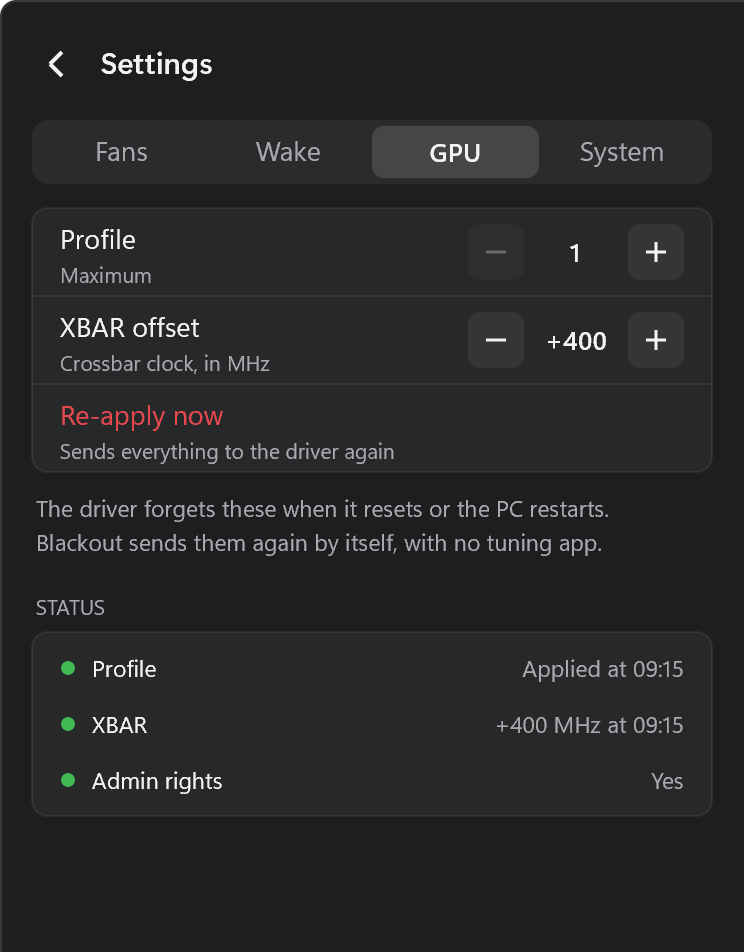
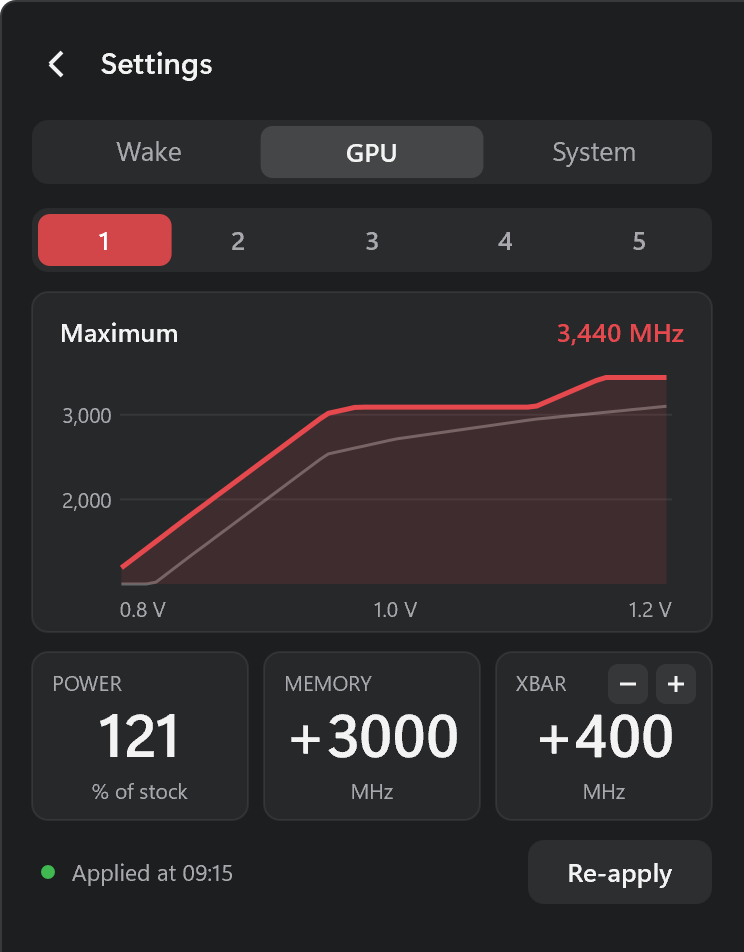
GPU tab redrawn: profile pills, the clock curve as a chart, tiles for power, memory and XBAR

diff --git a/src/panel.c b/src/panel.c
@@ -37,7 +37,7 @@
 enum {
     H_NONE, H_SCREENS, H_GEAR, H_BACK, H_TAB_FANS, H_TAB_WAKE, H_TAB_SYSTEM, H_RGB, H_SYNC, H_CURVE, H_START, H_EXIT,
     H_MAX_DN, H_MAX_UP, H_HYS_DN, H_HYS_UP, H_RESET, H_HOTKEY, H_WAKE_CLICK, H_WAKE_ESC, H_NOTICE, H_OVR_DN, H_OVR_UP, H_OVR,
-    H_TAB_GPU, H_PROF_DN, H_PROF_UP, H_XBAR_DN, H_XBAR_UP, H_GPU_APPLY, H_COUNT
+    H_TAB_GPU, H_PROF1, H_PROF2, H_PROF3, H_PROF4, H_PROF5, H_XBAR_DN, H_XBAR_UP, H_GPU_APPLY, H_COUNT
 };
 enum { F_BRAND, F_ROW, F_SMALL, F_BIG, F_UNIT, F_BOLD, F_TINY, F_COUNT };
 enum { V_MAIN, V_FANS, V_WAKE, V_SYSTEM, V_GPU };
@@ -648,49 +648,147 @@ static void paintSystem(float x, float y, float w) {
          DWRITE_TEXT_ALIGNMENT_LEADING);
 }
 
-// Nothing here is read back from the card while the panel is open (driver reads cost frame time): the tab says what
-// was sent and what the driver answered.
+// GPU tab: the selected profile drawn as a picture. Profile pills, its clock curve over the card's own curve, three
+// tiles (power, memory, XBAR) and a status line. Nothing is read from the card while the panel is open (driver reads
+// cost frame time): the curve is the saved one, the status is what the driver answered when it was last sent.
+static int viewSlot = -1, viewPower, viewMemory, viewCount, viewDelta[NV_SLOTS];
+
+static void gpuView(int slot) {
+    if (slot == viewSlot) return;
+    viewSlot = slot;
+    if (!panelTest) {
+        viewCount = gpuLoad(slot, &viewPower, &viewMemory, viewDelta);
+        return;
+    }
+    // Preview: a capped curve with a raised top for profile 1, a plain offset for the others.
+    viewPower = slot == 1 ? 121739 : 104000, viewMemory = 3000000, viewCount = gpuPoints;
+    for (int i = 0; i < gpuPoints; i++) {
+        int want = gpuVolt[i] <= 1100 ? 3090 - (slot - 1) * 15 : gpuVolt[i] >= 1150 ? 3440 : 3090 + (gpuVolt[i] - 1100) * 7;
+        viewDelta[i] = (slot == 1 && gpuBase[i] + 480 > want ? want - gpuBase[i] : slot == 1 ? 480 : 360 - (slot - 2) * 60) * 1000;
+    }
+}
+
+static void thousands(LPWSTR out, int v) {
+    if (v >= 1000) wsprintfW(out, L"%d,%03d", v / 1000, v % 1000);
+    else wsprintfW(out, L"%d", v);
+}
+
+// Small label on top, one big value, the unit under it.
+static void tile(LPCWSTR label, LPCWSTR value, LPCWSTR unit, float x, float y, float w, float h) {
+    card(x, y, w, h);
+    text(label, F_TINY, rc(x + 10, y + 8, w - 20, 14), dim(), 1, DWRITE_TEXT_ALIGNMENT_LEADING);
+    text(value, F_BIG, rc(x, y + 20, w, 40), ink(), 1, DWRITE_TEXT_ALIGNMENT_CENTER);
+    text(unit, F_TINY, rc(x, y + h - 22, w, 14), dim(), 1, DWRITE_TEXT_ALIGNMENT_CENTER);
+}
+
+static void miniButton(int id, float x, float y, BOOL plus, BOOL can) {
+    D2D1_RECT_F r = rc(x, y, 20, 20);
+    float cx = x + 10, cy = y + 10;
+    if (can) hit[id] = rc(x - 3, y - 3, 26, 26);
+    fillRound(r, 5, tone(), !can ? 0.03f : hover == id ? 0.14f : 0.07f);
+    line(cx - 4, cy, cx + 4, cy, ink(), can ? 1 : 0.3f, 1.5f);
+    if (plus) line(cx, cy - 4, cx, cy + 4, ink(), can ? 1 : 0.3f, 1.5f);
+}
+
 static void paintGpu(float x, float y, float w) {
     WCHAR s[96];
-    float ix = x + INSET, iw = w - 2 * INSET;
-    int rows = (gpuProfiles >= 2) + (xbarCount > 0) + 1, at = 0, slot = (int)pref(L"GpuProfile", 1), mhz = (int)pref(L"Xbar", (DWORD)xbarDefault);
+    int slot = (int)pref(L"GpuProfile", 1), mhz = (int)pref(L"Xbar", (DWORD)xbarDefault), at = 0, peak = 0;
     if (slot < 1 || slot > gpuProfiles) slot = 1;
     for (int i = 0; i < xbarCount; i++)
         if (xbarSteps[i] == mhz) at = i;
-    card(x, y, w, rows * ROW);
-    if (gpuProfiles >= 2) {
-        wsprintfW(s, L"%d", slot);
-        stepperRow(L"Profile", gpuNames[slot][0] ? gpuNames[slot] : L"Clock curve, power limit and memory", s, x, y, w, H_PROF_DN, H_PROF_UP, slot > 1, slot < gpuProfiles);
-        y += ROW;
-        divider(x, y, w);
-    }
-    if (xbarCount) {
-        if (mhz) wsprintfW(s, L"+%d", mhz);
-        else lstrcpyW(s, L"Off");
-        stepperRow(L"XBAR offset", L"Crossbar clock, in MHz", s, x, y, w, H_XBAR_DN, H_XBAR_UP, at > 0, at < xbarCount - 1);
-        y += ROW;
-        divider(x, y, w);
-    }
-    hit[H_GPU_APPLY] = rc(x, y, w, ROW);
-    hoverFill(H_GPU_APPLY, hit[H_GPU_APPLY]);
-    text(L"Re-apply now", F_ROW, rc(ix, y + 6, iw, 22), ACCENT, 1, DWRITE_TEXT_ALIGNMENT_LEADING);
-    text(L"Sends everything to the driver again", F_TINY, rc(ix, y + 26, iw, 14), dim(), 1, DWRITE_TEXT_ALIGNMENT_LEADING);
-    y += ROW + 10;
-    text(L"The driver forgets these when it resets or the PC restarts.", F_SMALL, rc(x + 2, y, w, 16), dim(), 1, DWRITE_TEXT_ALIGNMENT_LEADING);
-    text(L"Blackout sends them again by itself, with no tuning app.", F_SMALL, rc(x + 2, y + 17, w, 16), dim(), 1, DWRITE_TEXT_ALIGNMENT_LEADING);
-    y += 34 + 14;
+    if (gpuProfiles) gpuView(slot);
 
-    section(L"STATUS", x, &y, w);
-    card(x, y, w, 3 * 28 + 8);
-    y += 4;
+    // Profile pills.
+    if (gpuProfiles >= 2) {
+        float pw = (w - 6) / gpuProfiles;
+        fillRound(rc(x, y, w, 32), 8, tone(), 0.06f);
+        for (int i = 1; i <= gpuProfiles; i++) {
+            int id = H_PROF1 + i - 1;
+            D2D1_RECT_F r = rc(x + 3 + (i - 1) * pw, y + 3, pw, 26);
+            hit[id] = rc(r.left, y, pw, 32);
+            if (i == slot) fillRound(r, 6, ACCENT, 0.9f);
+            else if (hover == id) fillRound(r, 6, tone(), 0.08f);
+            wsprintfW(s, L"%d", i);
+            text(s, F_BOLD, rc(r.left, y + 7, pw, 20), i == slot ? 0xFFFFFF : hover == id ? ink() : dim(), 1, DWRITE_TEXT_ALIGNMENT_CENTER);
+        }
+        y += 32 + 10;
+    }
+
+    // The curve: MHz over volts, this profile in colour over the card's own curve.
+    float ch = gpuProfiles >= 2 ? 170 : 212;
+    card(x, y, w, ch);
+    D2D1_RECT_F g = rc(x + INSET + 30, y + 36, w - 2 * INSET - 30 - 6, ch - 36 - 24);
+    const float v0 = 800, v1 = 1200, f0 = 1000, f1 = 3600;
+#define GX(v) (g.left + ((v) - v0) / (v1 - v0) * (g.right - g.left))
+#define GY(f) (g.bottom - ((f) < f0 ? 0 : (f) > f1 ? 1 : ((f) - f0) / (f1 - f0)) * (g.bottom - g.top))
+    for (int f = 2000; f <= 3000; f += 1000) {
+        line(g.left, GY((float)f), g.right, GY((float)f), tone(), 0.07f, 1);
+        thousands(s, f);
+        text(s, F_TINY, rc(x + INSET - 4, GY((float)f) - 7, 30, 14), dim(), 1, DWRITE_TEXT_ALIGNMENT_TRAILING);
+    }
+    for (int v = 800; v <= 1200; v += 200) {
+        wsprintfW(s, L"%d.%d V", v / 1000, v % 1000 / 100);
+        text(s, F_TINY, rc(v == 800 ? g.left : v == 1200 ? g.right - 48 : GX((float)v) - 24, g.bottom + 5, 48, 14), dim(), 1,
+             v == 800 ? DWRITE_TEXT_ALIGNMENT_LEADING : v == 1200 ? DWRITE_TEXT_ALIGNMENT_TRAILING : DWRITE_TEXT_ALIGNMENT_CENTER);
+    }
+    if (gpuPoints && viewCount == gpuPoints) {
+        D2D1_POINT_2F stock[NV_SLOTS], tuned[NV_SLOTS];
+        int n = 0;
+        for (int i = 0; i < gpuPoints; i++) {
+            int f = gpuBase[i] + viewDelta[i] / 1000;
+            if (f > peak) peak = f;
+            if (gpuVolt[i] < v0 || gpuVolt[i] > v1) continue;
+            stock[n] = pt(GX((float)gpuVolt[i]), GY((float)gpuBase[i]));
+            tuned[n++] = pt(GX((float)gpuVolt[i]), GY((float)f));
+        }
+        geometry(stock, n, FALSE, 0, tone(), 0.3f, 1.5f);
+        geometry(tuned, n, TRUE, g.bottom, ACCENT, 0.13f, 0);
+        geometry(tuned, n, FALSE, 0, ACCENT, 1, 2.5f);
+    } else {
+        text(!gpuProfiles ? L"No profile saved yet" : gpuPoints ? L"Saved for a different card" : L"The curve shows once the profile has been sent", F_SMALL,
+             rc(g.left, (g.top + g.bottom) / 2 - 9, g.right - g.left, 18), dim(), 1, DWRITE_TEXT_ALIGNMENT_CENTER);
+    }
+#undef GX
+#undef GY
+    text(gpuProfiles && gpuNames[slot][0] ? gpuNames[slot] : gpuProfiles ? L"Clock curve" : L"GPU", F_BOLD, rc(x + INSET, y + 11, w - 2 * INSET - 110, 18), ink(), 1,
+         DWRITE_TEXT_ALIGNMENT_LEADING);
+    if (peak) {
+        thousands(s, peak);
+        lstrcatW(s, L" MHz");
+        text(s, F_BOLD, rc(x + w - INSET - 110, y + 11, 110, 18), ACCENT, 1, DWRITE_TEXT_ALIGNMENT_TRAILING);
+    }
+    y += ch + 10;
+
+    // Tiles.
+    float tw = (w - 2 * 8) / 3, th = 84;
+    if (gpuProfiles) wsprintfW(s, L"%d", viewPower / 1000);
+    tile(L"POWER", gpuProfiles ? s : L"-", L"% of stock", x, y, tw, th);
+    if (gpuProfiles) wsprintfW(s, viewMemory > 0 ? L"+%d" : L"%d", viewMemory / 1000);
+    tile(L"MEMORY", gpuProfiles ? s : L"-", L"MHz", x + tw + 8, y, tw, th);
+    if (mhz) wsprintfW(s, L"+%d", mhz);
+    else lstrcpyW(s, L"0");
+    tile(L"XBAR", xbarCount ? s : L"-", L"MHz", x + 2 * (tw + 8), y, tw, th);
+    if (xbarCount) {
+        miniButton(H_XBAR_DN, x + 2 * (tw + 8) + tw - 52, y + 6, FALSE, at > 0);
+        miniButton(H_XBAR_UP, x + 2 * (tw + 8) + tw - 28, y + 6, TRUE, at < xbarCount - 1);
+    }
+    y += th + 10;
+
+    // What the driver said last time, and a way to send it all again.
     BOOL admin = panelTest ? pref(L"Admin", 1) : isElevated();
-    statusRow(L"Profile", !gpuProfiles ? L"None saved" : gpuState == -1 ? L"Not sent yet" : gpuNote, !gpuProfiles || gpuState == -1 ? 0 : gpuState ? 1 : 2, x, y, w);
-    if (xbarState == -1) lstrcpyW(s, L"Not sent yet");
-    else if (xbarState) wsprintfW(s, L"Driver refused it (%d)", xbarState);
-    else if (xbarSent) wsprintfW(s, L"+%d MHz at %02d:%02d", xbarSent, xbarSentAt.wHour, xbarSentAt.wMinute);
-    else wsprintfW(s, L"Off at %02d:%02d", xbarSentAt.wHour, xbarSentAt.wMinute);
-    statusRow(L"XBAR", !xbarCount ? L"Not set up" : s, !xbarCount || xbarState == -1 ? 0 : xbarState ? 1 : 2, x, y + 28, w);
-    statusRow(L"Admin rights", admin ? L"Yes" : L"No, so nothing can be written", admin ? 2 : 1, x, y + 56, w);
+    int bad = !admin || (gpuProfiles && gpuState != 0 && gpuState != -1) || (xbarCount && xbarState != 0 && xbarState != -1);
+    int idle = gpuProfiles ? gpuState == -1 : xbarState == -1;
+    if (!admin) lstrcpyW(s, L"Needs admin rights");
+    else if (gpuProfiles && gpuState != 0 && gpuState != -1) lstrcpyW(s, gpuNote);
+    else if (xbarCount && xbarState != 0 && xbarState != -1) wsprintfW(s, L"Driver refused XBAR (%d)", xbarState);
+    else if (idle) lstrcpyW(s, L"Not sent yet");
+    else if (gpuProfiles) lstrcpyW(s, gpuNote);
+    else wsprintfW(s, L"Applied at %02d:%02d", xbarSentAt.wHour, xbarSentAt.wMinute);
+    dot(x + 8, y + 16, 3.5f, bad ? warn() : idle ? dim() : GOOD, idle && !bad ? 0.5f : 1);
+    text(s, F_SMALL, rc(x + 20, y + 8, w - 120, 18), bad ? warn() : dim(), 1, DWRITE_TEXT_ALIGNMENT_LEADING);
+    hit[H_GPU_APPLY] = rc(x + w - 92, y, 92, 32);
+    fillRound(hit[H_GPU_APPLY], 8, tone(), hover == H_GPU_APPLY ? 0.14f : 0.07f);
+    text(L"Re-apply", F_BOLD, rc(x + w - 92, y + 7, 92, 18), ink(), 1, DWRITE_TEXT_ALIGNMENT_CENTER);
 }
 
 static void paintPanel(void) {
@@ -944,14 +1042,15 @@ static void panelClick(int id) {
     case H_TAB_WAKE:
     case H_TAB_SYSTEM: panelGo(V_FANS + id - H_TAB_FANS); return;
     case H_TAB_GPU: panelGo(V_GPU); return;
-    case H_PROF_DN:
-    case H_PROF_UP: {
-        // Applied a moment after the last click, so stepping past a profile doesn't load it.
-        int slot = (int)pref(L"GpuProfile", 1) + (id == H_PROF_UP ? 1 : -1);
-        setPref(L"GpuProfile", slot < 1 ? 1 : slot > gpuProfiles ? gpuProfiles : slot);
+    case H_PROF1:
+    case H_PROF2:
+    case H_PROF3:
+    case H_PROF4:
+    case H_PROF5:
+        // Applied a moment after the last click, so a slip onto the wrong pill can still be corrected.
+        setPref(L"GpuProfile", id - H_PROF1 + 1);
         if (!panelTest) SetTimer(panelOwner, TIMER_GPU, 700, NULL);
         break;
-    }
     case H_XBAR_DN:
     case H_XBAR_UP: {
         int at = 0, mhz = (int)pref(L"Xbar", (DWORD)xbarDefault);
@@ -1373,9 +1472,15 @@ static int panelDev(LPWSTR cmd) {
     if ((at = wcsstr(cmd, L"hover="))) hover = _wtoi(at + 6);
     if ((at = wcsstr(cmd, L"drag="))) dragPoint = _wtoi(at + 5);
     if (flag(cmd, L"gpu")) {
-        // Preview: two profiles and four XBAR steps, everything sent at 09:15.
-        xbarCount = 4, xbarSteps[0] = 0, xbarSteps[1] = 300, xbarSteps[2] = 400, xbarSteps[3] = 500, xbarDefault = 400, gpuProfiles = 2;
-        lstrcpyW(gpuNames[1], L"Maximum"), lstrcpyW(gpuNames[2], L"One step under");
+        // Preview: five profiles on a card shaped like a real one, four XBAR steps, everything sent at 09:15.
+        static const int kv[7] = {450, 800, 850, 950, 1000, 1100, 1240}, kf[7] = {180, 700, 1320, 2535, 2715, 2947, 3172};
+        for (gpuPoints = 0; gpuPoints < 127; gpuPoints++) {
+            int v = 450 + gpuPoints * 790 / 126, k = 0;
+            while (k < 5 && v > kv[k + 1]) k++;
+            gpuVolt[gpuPoints] = v, gpuBase[gpuPoints] = kf[k] + (kf[k + 1] - kf[k]) * (v - kv[k]) / (kv[k + 1] - kv[k]);
+        }
+        xbarCount = 4, xbarSteps[0] = 0, xbarSteps[1] = 300, xbarSteps[2] = 400, xbarSteps[3] = 500, xbarDefault = 400, gpuProfiles = 5;
+        lstrcpyW(gpuNames[1], L"Maximum"), lstrcpyW(gpuNames[2], L"Reliable");
         setPref(L"Xbar", 400), setPref(L"GpuProfile", 1);
         gpuState = xbarState = 0, xbarSent = 400, xbarSentAt.wHour = 9, xbarSentAt.wMinute = 15, lstrcpyW(gpuNote, L"Applied at 09:15");
     } else {

diff --git a/src/gpu.c b/src/gpu.c
@@ -34,6 +34,8 @@ static int gpuProfiles, xbarSteps[MAX_XBAR], xbarCount, xbarDefault;
 static int gpuState = -1, xbarState = -1, xbarSent;
 static SYSTEMTIME gpuAt, xbarSentAt;
 static WCHAR gpuNote[48], gpuNames[6][24];
+// The card's own curve (MHz at each core point's mV), for the panel's chart. Read once, when the offsets are zero.
+static int gpuBase[NV_SLOTS], gpuVolt[NV_SLOTS], gpuPoints;
 static volatile LONG gpuBusy;
 static HWND gpuWnd;
 
@@ -157,6 +159,24 @@ static int nvXbar(int khz, int *now) {
     return r;
 }
 
+static void nvBaseRead(void) {
+    NvCurve *c = nvAlloc(sizeof(NvCurve));
+    BYTE *v = nvAlloc(0x1C28);
+    *(DWORD *)v = 0x00011C28;
+    if (!nvCurveGet(c)) {
+        CopyMemory(v + 4, c->info + 4, 32);
+        if (!nv(0x21537AD4, v)) {
+            for (int i = 0; i < c->count; i++) {
+                DWORD *e = (DWORD *)(v + 0x44 + c->slot[i] * 28);
+                gpuBase[i] = ((int)e[1] - *nvDelta(c, c->slot[i])) / 1000, gpuVolt[i] = (int)e[2] / 1000;
+            }
+            gpuPoints = c->count;
+        }
+    }
+    nvFree(v);
+    nvFree(c);
+}
+
 // ---- Profiles in blackout.ini: [gpu.1] name=  power=  memory=  curve=offset,offset,... (kHz, one per core point) ----
 
 static int gpuLoad(int n, int *power, int *memory, int *delta) {
@@ -222,6 +242,7 @@ static int gpuApplyNow(int slot) {
     LPCWSTR what = L"power limit";
     if (power) r = nvPower(power, NULL);
     if (!r) what = L"memory offset", r = nvMemory(memory, NULL);
+    if (!r && !gpuPoints) nvBaseRead(); // the memory write has just zeroed the offsets
     if (!r && xbarCount) gpuXbarNow();
     if (!r) what = L"curve", r = nvCurveSet(delta, count);
     gpuSay(r, what);
